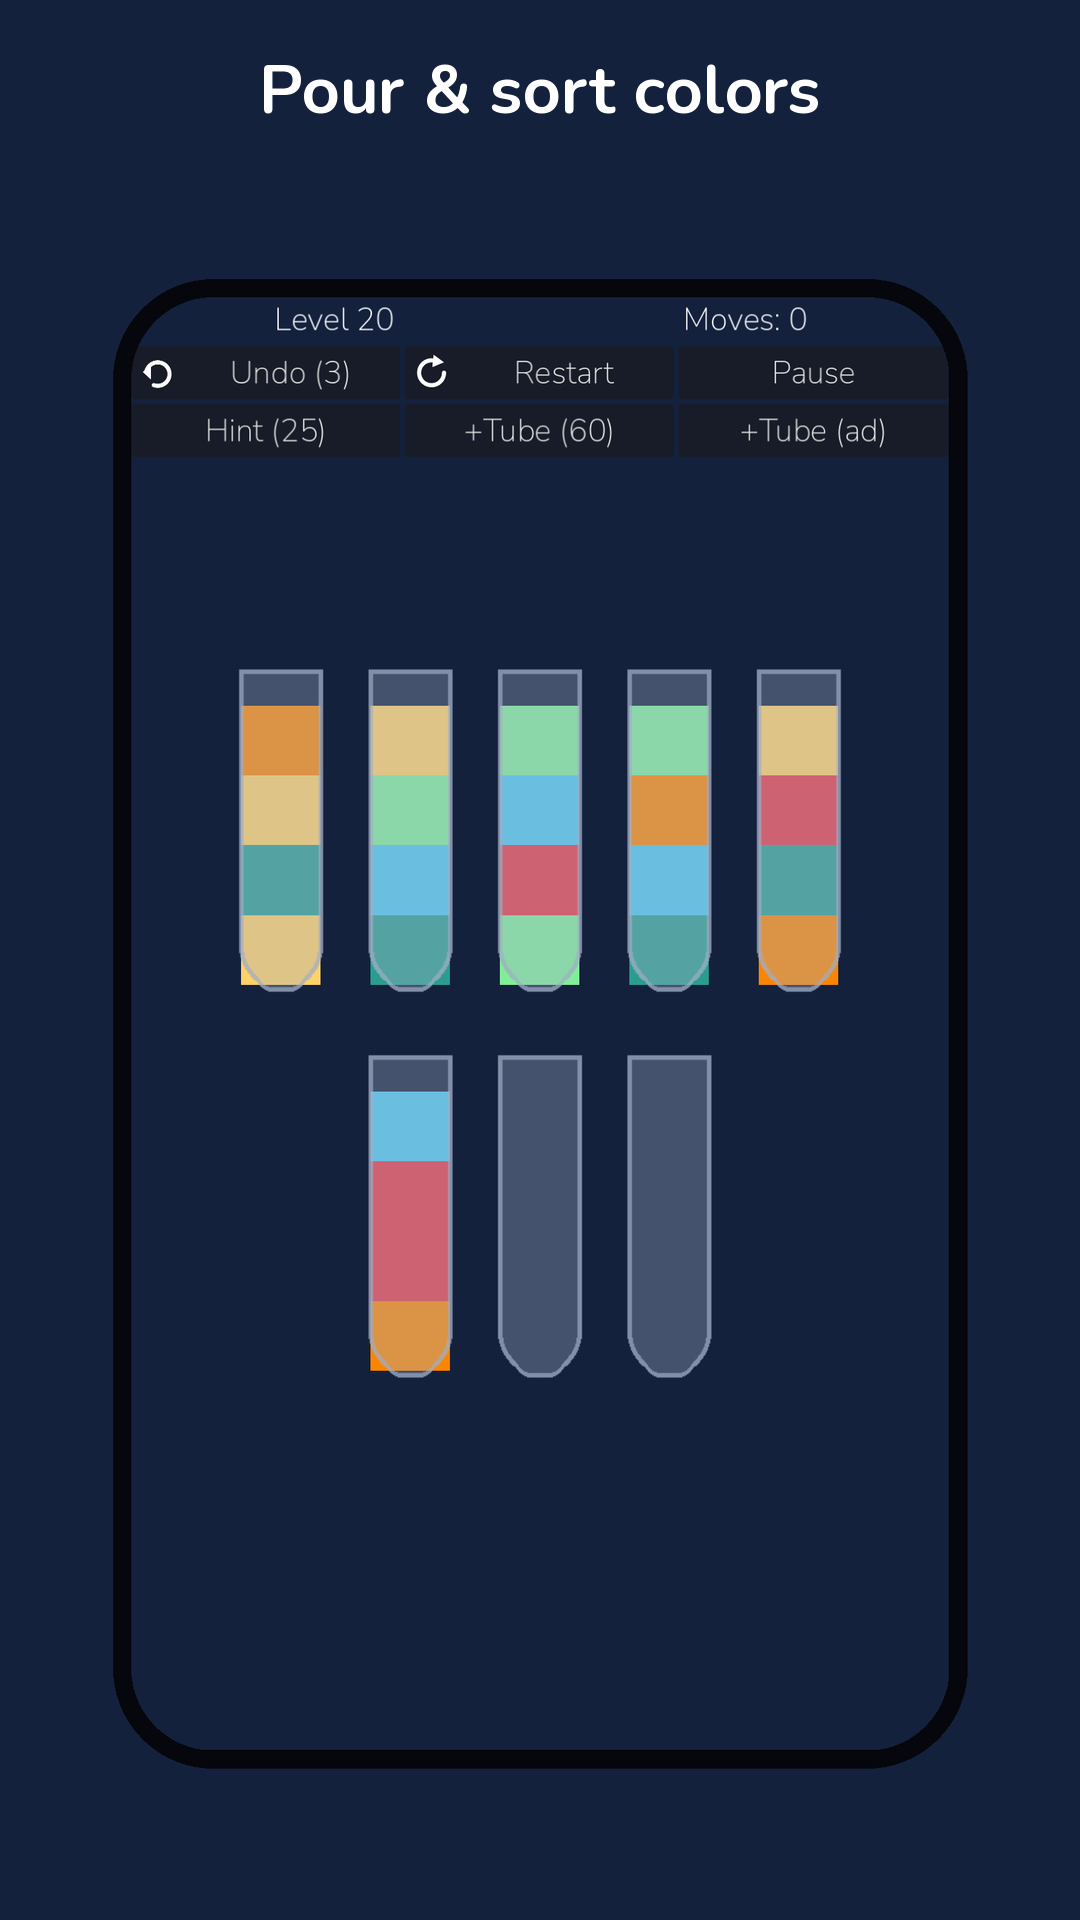
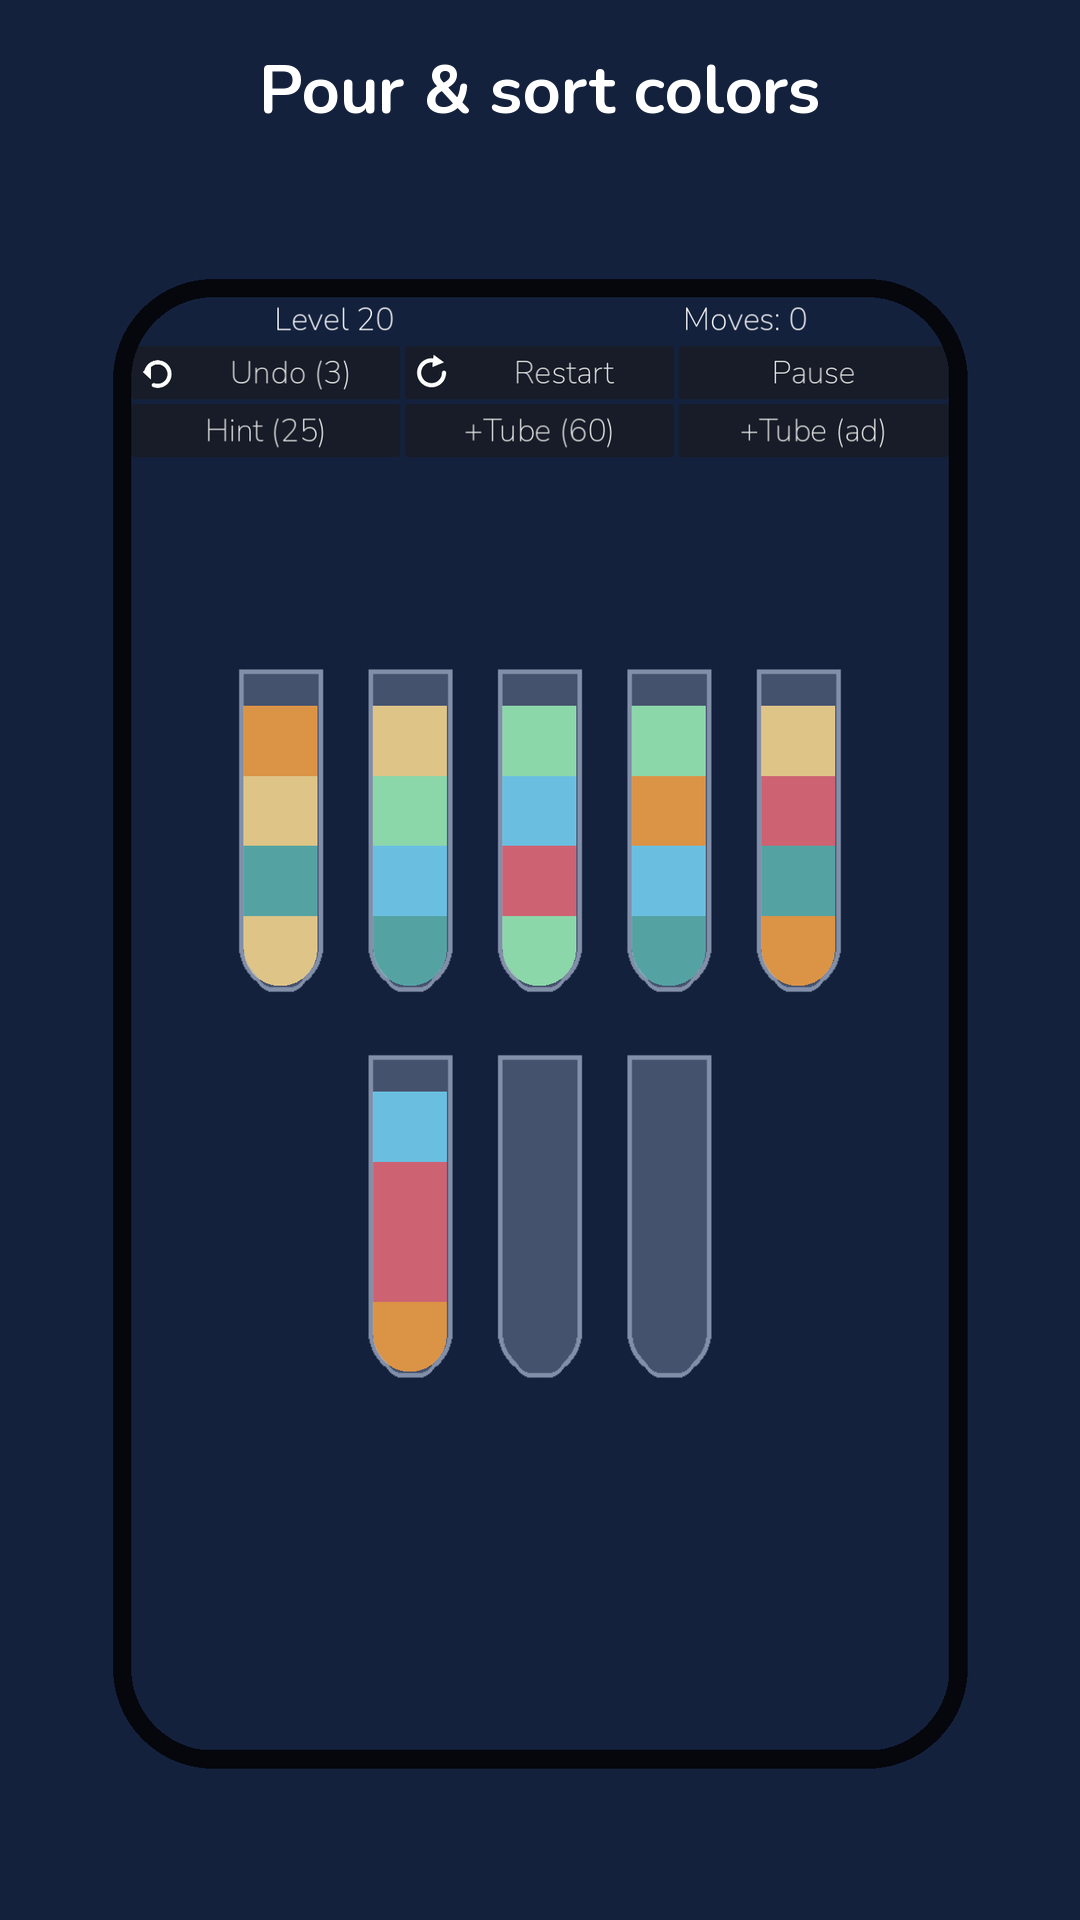
feat(T-056): TubeView — warstwy płynu przycięte do wnętrza probówki (zaokrąglony spód) + testy + odświeżone screenshoty
Claude-Session: https://claude.ai/code/session_01UDf65fKwWNGfEucZKBXc7i

diff --git a/docs/LOG.md b/docs/LOG.md
@@ -101,3 +101,4 @@ Godot 4.4.1 → 4.7.2, gdUnit4 → v7, target API 36 (ADR-008). make check zielo
 - P1: T-062 ConsentProvider (interfejs + stałe statusów) + FakeConsentProvider (skryptowane odpowiedzi, `respond`, `hold_form`) + ConsentFlow (RefCounted, zegar wstrzykiwany, timeout przez `poll()` tylko podczas czekania na SDK, dokładnie jedno `report_consent` na rodzaj) + `consent_timeout_seconds=8`; 11 testów, 264 gdUnit4; QA OK z uwagami (uwaga o timeoucie podczas formularza naprawiona) → PR #55 (auto-merge). Inbox: T-068, T-069.
 - P1: T-063 flow zgody jako własność autoloadu `Ads` (`begin_consent`, `_process→poll`, bramka PENDING dla rewarded/interstitial, `set_personalized` w AdProvider), `App._ready → Ads.begin_consent()`, przycisk „Opcje prywatności” w Settings (EN/PL/DE) widoczny tylko gdy wymagane, docs/privacy bez ZWERYFIKUJ przy ścieżce menu; 7 testów (271 gdUnit4), QA OK z uwagami (playtest 200/200, 39 interstitiali) → PR #56 (auto-merge, depends on #55). Inbox: T-070.
 - P1: T-064 `game/ios/PrivacyInfo.xcprivacy` (tracking=true, domeny [] ZWERYFIKUJ, 6 typów danych 1:1 z tabelą Privacy Labels, 3 kategorie required-reason API) + `PrivacyManifestTest` (4 testy, 29 tools) + punkt w RELEASE_CHECKLIST → PR #57 (auto-merge). Inbox: T-071.
+- P1: T-056 TubeView: warstwy jako wielokąty (`inner_rect`/`layer_rect`/`layer_polygon` static, dolna z zaokrąglonym spodem r=36 ze sprite'a, marginesy 12/13/13 z gen_assets) + 4 testy (275 gdUnit4); `make screenshots` → 9 PNG (01/02/03 × EN/PL/DE), kadr 01 obejrzany → PR #59 (auto-merge).

diff --git a/BACKLOG.md b/BACKLOG.md
@@ -44,7 +44,7 @@ Pętla bierze pierwsze `todo` z najwyższej sekcji. Zadania P0 muszą być `done
   KA: fixture kadru LevelComplete w `ScreenshotFixtures` ustawia `show_result` z wartościami z ekonomii (`win_reward_coins` + premia „idealnie” z `GameConfig`, nie literały) — test gdUnit4: etykieta monet po fixture ≠ „+0” i równa `Economy`-wyliczonej kwocie; `perfect_label` widoczny. `make screenshots` → kadr 02 ×3 języki odświeżony. `make check` zielone. ≤ ~60 linii + PNG.
   Skill: `godot-dev`
 
-- [ ] T-056 `todo` BoardView/TubeView: warstwy płynu przycięte do kształtu probówki (dolna warstwa nie wystaje poza zaokrąglenie) (przeniesione z Inbox)
+- [ ] T-056 `review` BoardView/TubeView: warstwy płynu przycięte do kształtu probówki (dolna warstwa nie wystaje poza zaokrąglenie) (przeniesione z Inbox) → PR #59
   KA: rysowanie warstw w `tube_view.gd` ograniczone do wnętrza probówki (np. dolna warstwa jako prostokąt + zaokrąglony spód o promieniu z sprite'a, albo `clip_children` z maską) dla obu kształtów z T-018; stałe proporcji jako nazwane `const`/klucze. Test gdUnit4: dla probówki pełnej i z 1 warstwą prostokąt/obrys dolnej warstwy mieści się w `Rect2` wnętrza probówki (z tolerancją 1 px) w obu kształtach. Kadr Level (01) obejrzany po `make screenshots`. `make check` zielone. ≤ ~100 linii.
   Skill: `godot-dev`
 
